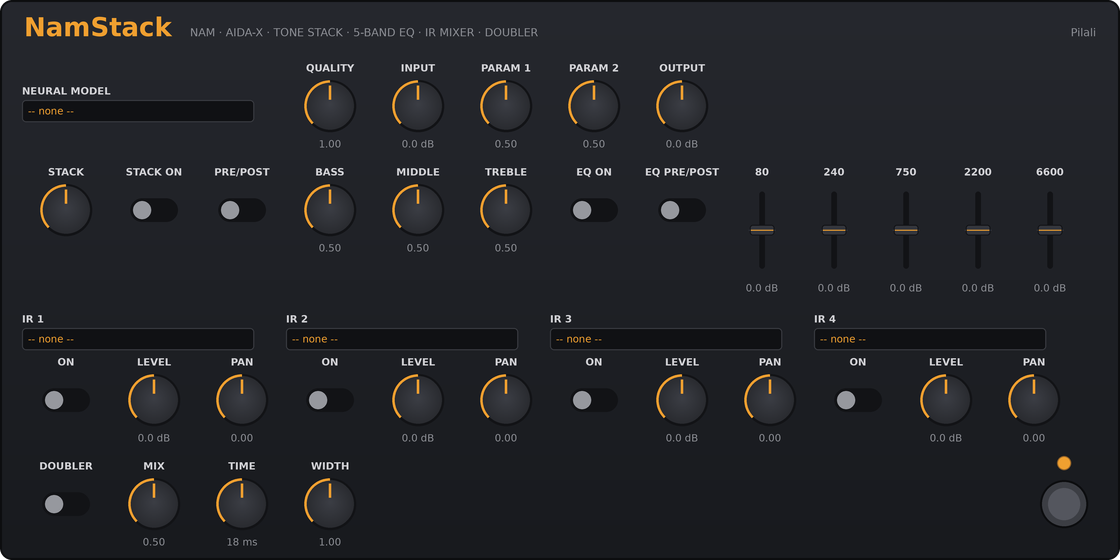
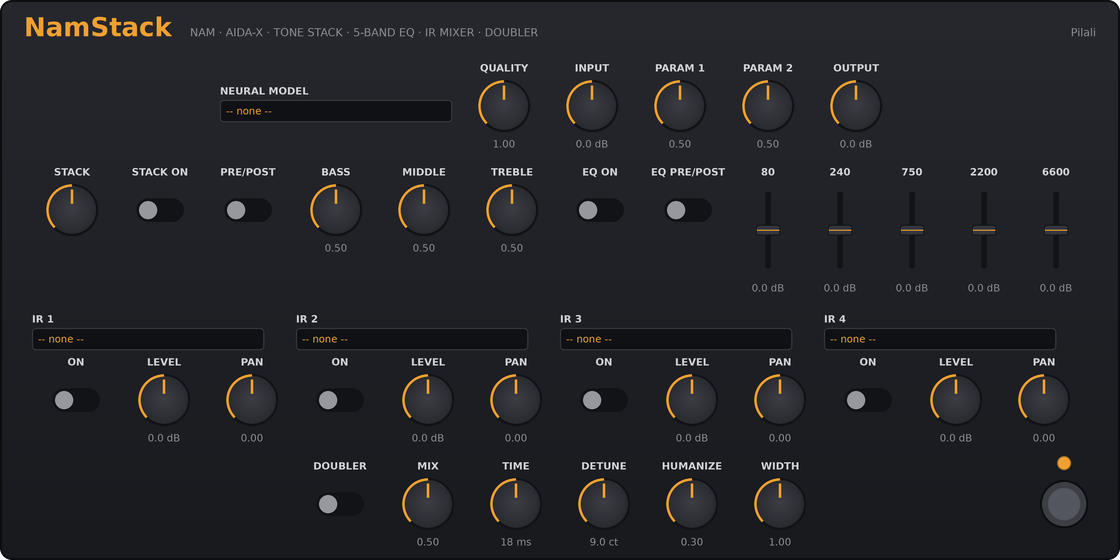
modgui: centre each row, and put the whole doubler on the pedal
The rows all started at the left edge, which left the short doubler line
dangling and the top row lopsided. Centre each line in the 1120px pedal
instead; the lefts are precomputed constants (documented in the stylesheet)
so make_screenshot_mod can mirror them exactly.

The doubler also gains its two hidden controls, detune (cents) and humanize:
they were processed by the plugin but reachable from nothing on the pedal.
Its row is now on/mix/time/detune/humanize/width, and the settings list in
modgui.ttl gains the two entries in the same order.

Verified by rendering the template in Chromium with the mustache placeholders
expanded the way mod-ui does: every row centred, six doubler cells, IR
selectors still sitting over their slots.

Claude-Session: https://claude.ai/code/session_01X17FCRv3uHea2MyBBiyxgD

diff --git a/mod/modgui/stylesheet-namstack-mod.css b/mod/modgui/stylesheet-namstack-mod.css
@@ -65,12 +65,18 @@
     display: -webkit-box; display: -moz-box; display: flex;
 }
 
-/* Row 1 starts on the fourth grid column (22 + 3*88), after the model file
-   selector. Row 3's controls sit under the IR selectors (top 312). */
-.namstackmod{{{cns}}} .ns-row-model { top: 60px; left: 286px; }
-.namstackmod{{{cns}}} .ns-row-eq    { top: 164px; }
-.namstackmod{{{cns}}} .ns-row-ir    { top: 354px; }
-.namstackmod{{{cns}}} .ns-row-dbl   { top: 458px; }
+/* Each line is centred in the 1120px pedal; the lefts are precomputed from
+   the row widths so the screenshot generator can mirror them exactly.
+     row 1: 240 (model selector) + 5*88 = 680  -> (1120-680)/2  = 220
+     row 2: 8*88 + 5*72          = 1064        -> (1120-1064)/2 = 28
+     row 3: 4 slots * 264        = 1056        -> (1120-1056)/2 = 32
+     row 4: 6*88                 = 528         -> (1120-528)/2  = 296
+   Row 1's knobs start after the selector (220 + 240); row 3's controls sit
+   under the IR selectors (top 312). */
+.namstackmod{{{cns}}} .ns-row-model { top: 60px; left: 460px; }
+.namstackmod{{{cns}}} .ns-row-eq    { top: 164px; left: 28px; }
+.namstackmod{{{cns}}} .ns-row-ir    { top: 354px; left: 32px; }
+.namstackmod{{{cns}}} .ns-row-dbl   { top: 458px; left: 296px; }
 
 .namstackmod{{{cns}}} .ns-ctrl {
     width: 88px;
@@ -165,15 +171,15 @@
 
 /* the neural model, top row, centred against the knobs beside it */
 .namstackmod{{{cns}}} .ns-file[mod-parameter-uri$="#model"] {
-    left: 22px;
+    left: 220px;
     top: 84px;
 }
 
 /* one selector above each IR slot's on / level / pan (264px slot pitch) */
-.namstackmod{{{cns}}} .ns-file[mod-parameter-uri$="#ir1"] { left: 22px;  top: 312px; }
-.namstackmod{{{cns}}} .ns-file[mod-parameter-uri$="#ir2"] { left: 286px; top: 312px; }
-.namstackmod{{{cns}}} .ns-file[mod-parameter-uri$="#ir3"] { left: 550px; top: 312px; }
-.namstackmod{{{cns}}} .ns-file[mod-parameter-uri$="#ir4"] { left: 814px; top: 312px; }
+.namstackmod{{{cns}}} .ns-file[mod-parameter-uri$="#ir1"] { left: 32px;  top: 312px; }
+.namstackmod{{{cns}}} .ns-file[mod-parameter-uri$="#ir2"] { left: 296px; top: 312px; }
+.namstackmod{{{cns}}} .ns-file[mod-parameter-uri$="#ir3"] { left: 560px; top: 312px; }
+.namstackmod{{{cns}}} .ns-file[mod-parameter-uri$="#ir4"] { left: 824px; top: 312px; }
 
 .namstackmod{{{cns}}} .ns-file p {
     margin: 0 0 2px;

diff --git a/mod/modgui/icon-namstack-mod.html b/mod/modgui/icon-namstack-mod.html
@@ -182,7 +182,7 @@
         </div>
     </div>
 
-    <!-- Row 4: the doubler. -->
+    <!-- Row 4: the doubler, all of it. -->
     <div class="ns-row ns-row-dbl">
         <div class="ns-ctrl">
             <p>DOUBLER</p>
@@ -198,6 +198,16 @@
             <p>TIME</p>
             <div class="ns-knob" mod-role="input-control-port" mod-port-symbol="dbl_time"></div>
             <div class="ns-value" mod-role="input-control-value" mod-port-symbol="dbl_time"></div>
+        </div>
+        <div class="ns-ctrl">
+            <p>DETUNE</p>
+            <div class="ns-knob" mod-role="input-control-port" mod-port-symbol="dbl_detune"></div>
+            <div class="ns-value" mod-role="input-control-value" mod-port-symbol="dbl_detune"></div>
+        </div>
+        <div class="ns-ctrl">
+            <p>HUMANIZE</p>
+            <div class="ns-knob" mod-role="input-control-port" mod-port-symbol="dbl_humanize"></div>
+            <div class="ns-value" mod-role="input-control-value" mod-port-symbol="dbl_humanize"></div>
         </div>
         <div class="ns-ctrl">
             <p>WIDTH</p>

diff --git a/modgui/tools/generate_assets.py b/modgui/tools/generate_assets.py
@@ -350,18 +350,18 @@ def make_screenshot_mod():
         draw.text(((bx + 6) * SS, (top + 16 + 11) * SS), "-- none --", font=value_font,
                   fill=AMBER, anchor="lm")
 
-    # row 1 (CSS .ns-row-model: top 60, left 286) after the model selector
-    # (CSS .ns-file[#model]: left 22, top 84, 232px box)
-    draw_file_select(22, 84, "NEURAL MODEL", box_w=232)
+    # row 1 (CSS .ns-row-model: top 60, left 460) after the model selector
+    # (CSS .ns-file[#model]: left 220, top 84, 232px box); centred as a group
+    draw_file_select(220, 84, "NEURAL MODEL", box_w=232)
     draw_row(["QUALITY", "INPUT", "PARAM 1", "PARAM 2", "OUTPUT"], set(),
-             {0: "1.00", 1: "0.0 dB", 2: "0.50", 3: "0.50", 4: "0.0 dB"}, 60, x0=286)
+             {0: "1.00", 1: "0.0 dB", 2: "0.50", 3: "0.50", 4: "0.0 dB"}, 60, x0=460)
 
-    # row 2, all the EQ on one line (CSS .ns-row-eq: top 164): the tone stack,
-    # then the graphic EQ switches and faders
+    # row 2, all the EQ on one line (CSS .ns-row-eq: top 164, left 28): the
+    # tone stack, then the graphic EQ switches and faders
     draw_row(["STACK", "STACK ON", "PRE/POST", "BASS", "MIDDLE", "TREBLE",
               "EQ ON", "EQ PRE/POST"], {1, 2, 6, 7},
-             {3: "0.50", 4: "0.50", 5: "0.50"}, 164)
-    fader_x0 = ROW_X + 8 * BLOCK_W
+             {3: "0.50", 4: "0.50", 5: "0.50"}, 164, x0=28)
+    fader_x0 = 28 + 8 * BLOCK_W
     for i, label in enumerate(EQ_BANDS):
         cx = (fader_x0 + i * FADER_BLOCK_W + FADER_BLOCK_W / 2) * SS
         draw.text((cx, (164 + LABEL_H / 2) * SS), label, font=label_font, fill=TEXT, anchor="mm")
@@ -373,15 +373,15 @@ def make_screenshot_mod():
                   font=value_font, fill=TEXT_DIM, anchor="mm")
 
     # row 3, IR mixer: file selector above each slot's on / level / pan
-    # (CSS .ns-file[#ir*]: 264px pitch from left 22, top 312; .ns-row-ir: top 354)
+    # (CSS .ns-file[#ir*]: 264px pitch from left 32, top 312; .ns-row-ir: top 354)
     for i in range(4):
-        draw_file_select(22 + i * 264, 312, "IR %d" % (i + 1), box_w=232)
+        draw_file_select(32 + i * 264, 312, "IR %d" % (i + 1), box_w=232)
     draw_row(["ON", "LEVEL", "PAN"] * 4, {0, 3, 6, 9},
-             {i: ("0.0 dB" if i % 3 == 1 else "0.00") for i in range(12) if i % 3}, 354)
+             {i: ("0.0 dB" if i % 3 == 1 else "0.00") for i in range(12) if i % 3}, 354, x0=32)
 
-    # row 4, doubler (CSS .ns-row-dbl: top 458)
-    draw_row(["DOUBLER", "MIX", "TIME", "WIDTH"], {0},
-             {1: "0.50", 2: "18 ms", 3: "1.00"}, 458)
+    # row 4, the whole doubler (CSS .ns-row-dbl: top 458, left 296)
+    draw_row(["DOUBLER", "MIX", "TIME", "DETUNE", "HUMANIZE", "WIDTH"], {0},
+             {1: "0.50", 2: "18 ms", 3: "9.0 ct", 4: "0.30", 5: "1.00"}, 458, x0=296)
 
     # footswitch + led (CSS: fsw 1040/480 48px, led 1057/456 14px)
     fx, fy = 1064, 504
